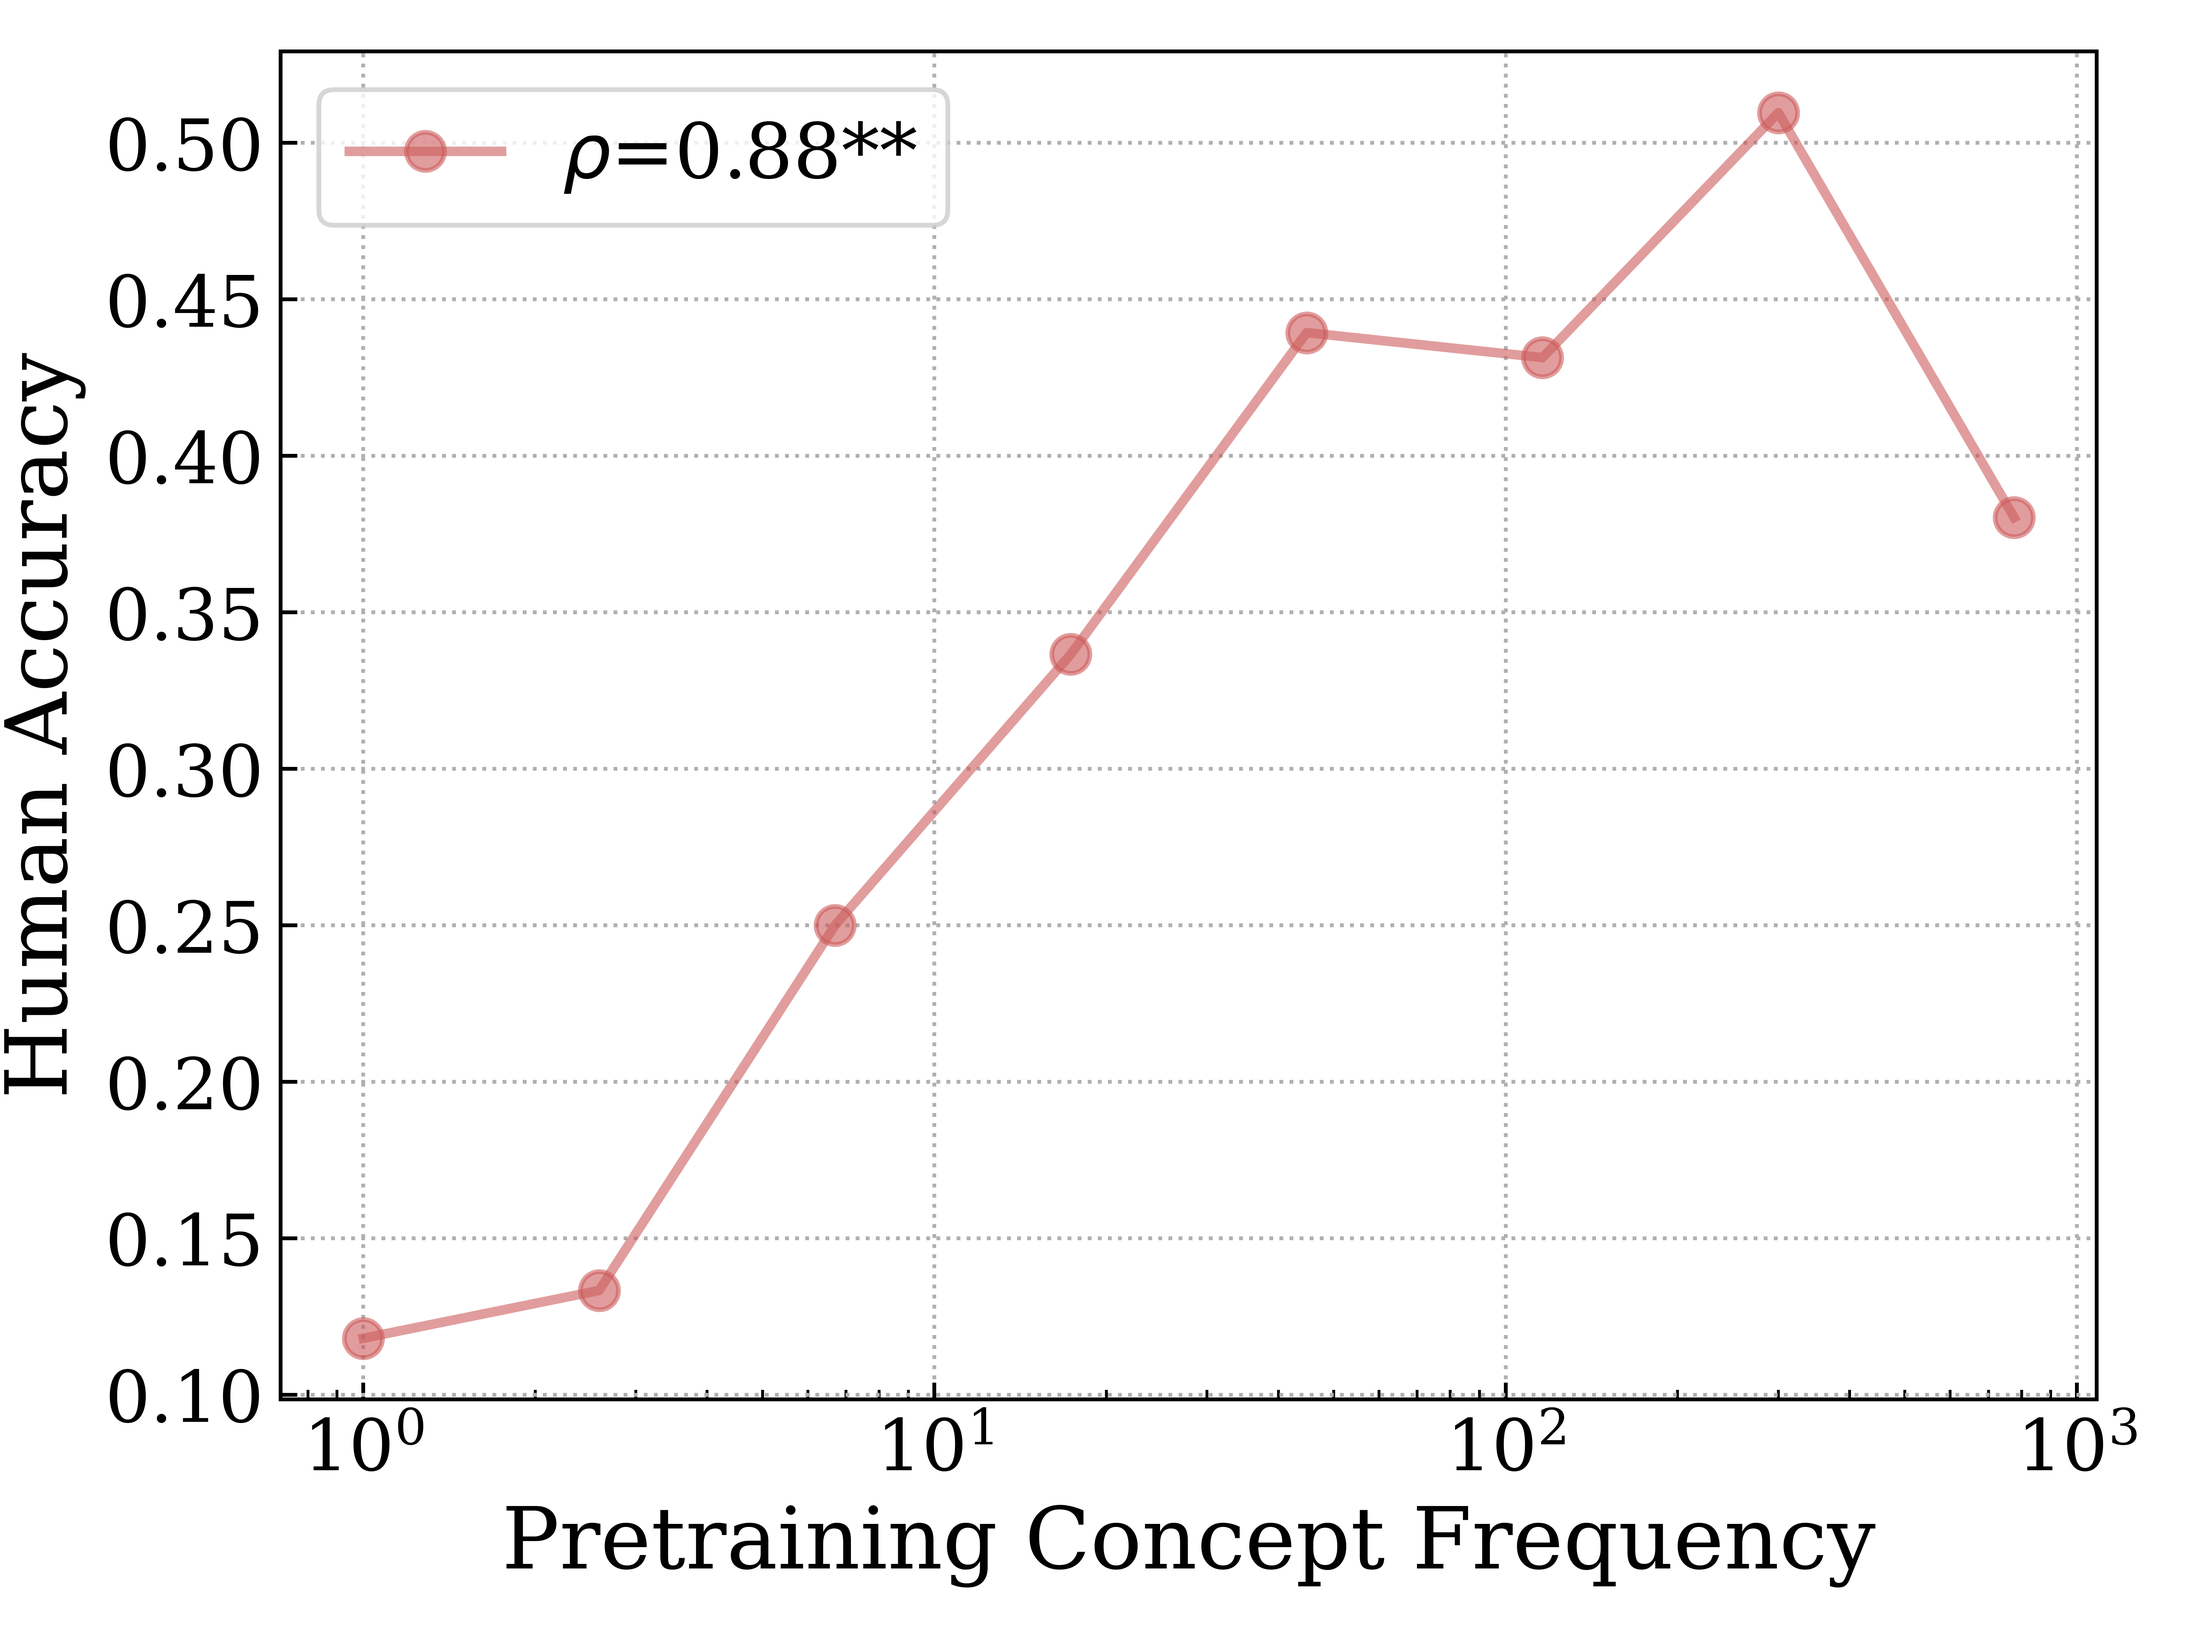
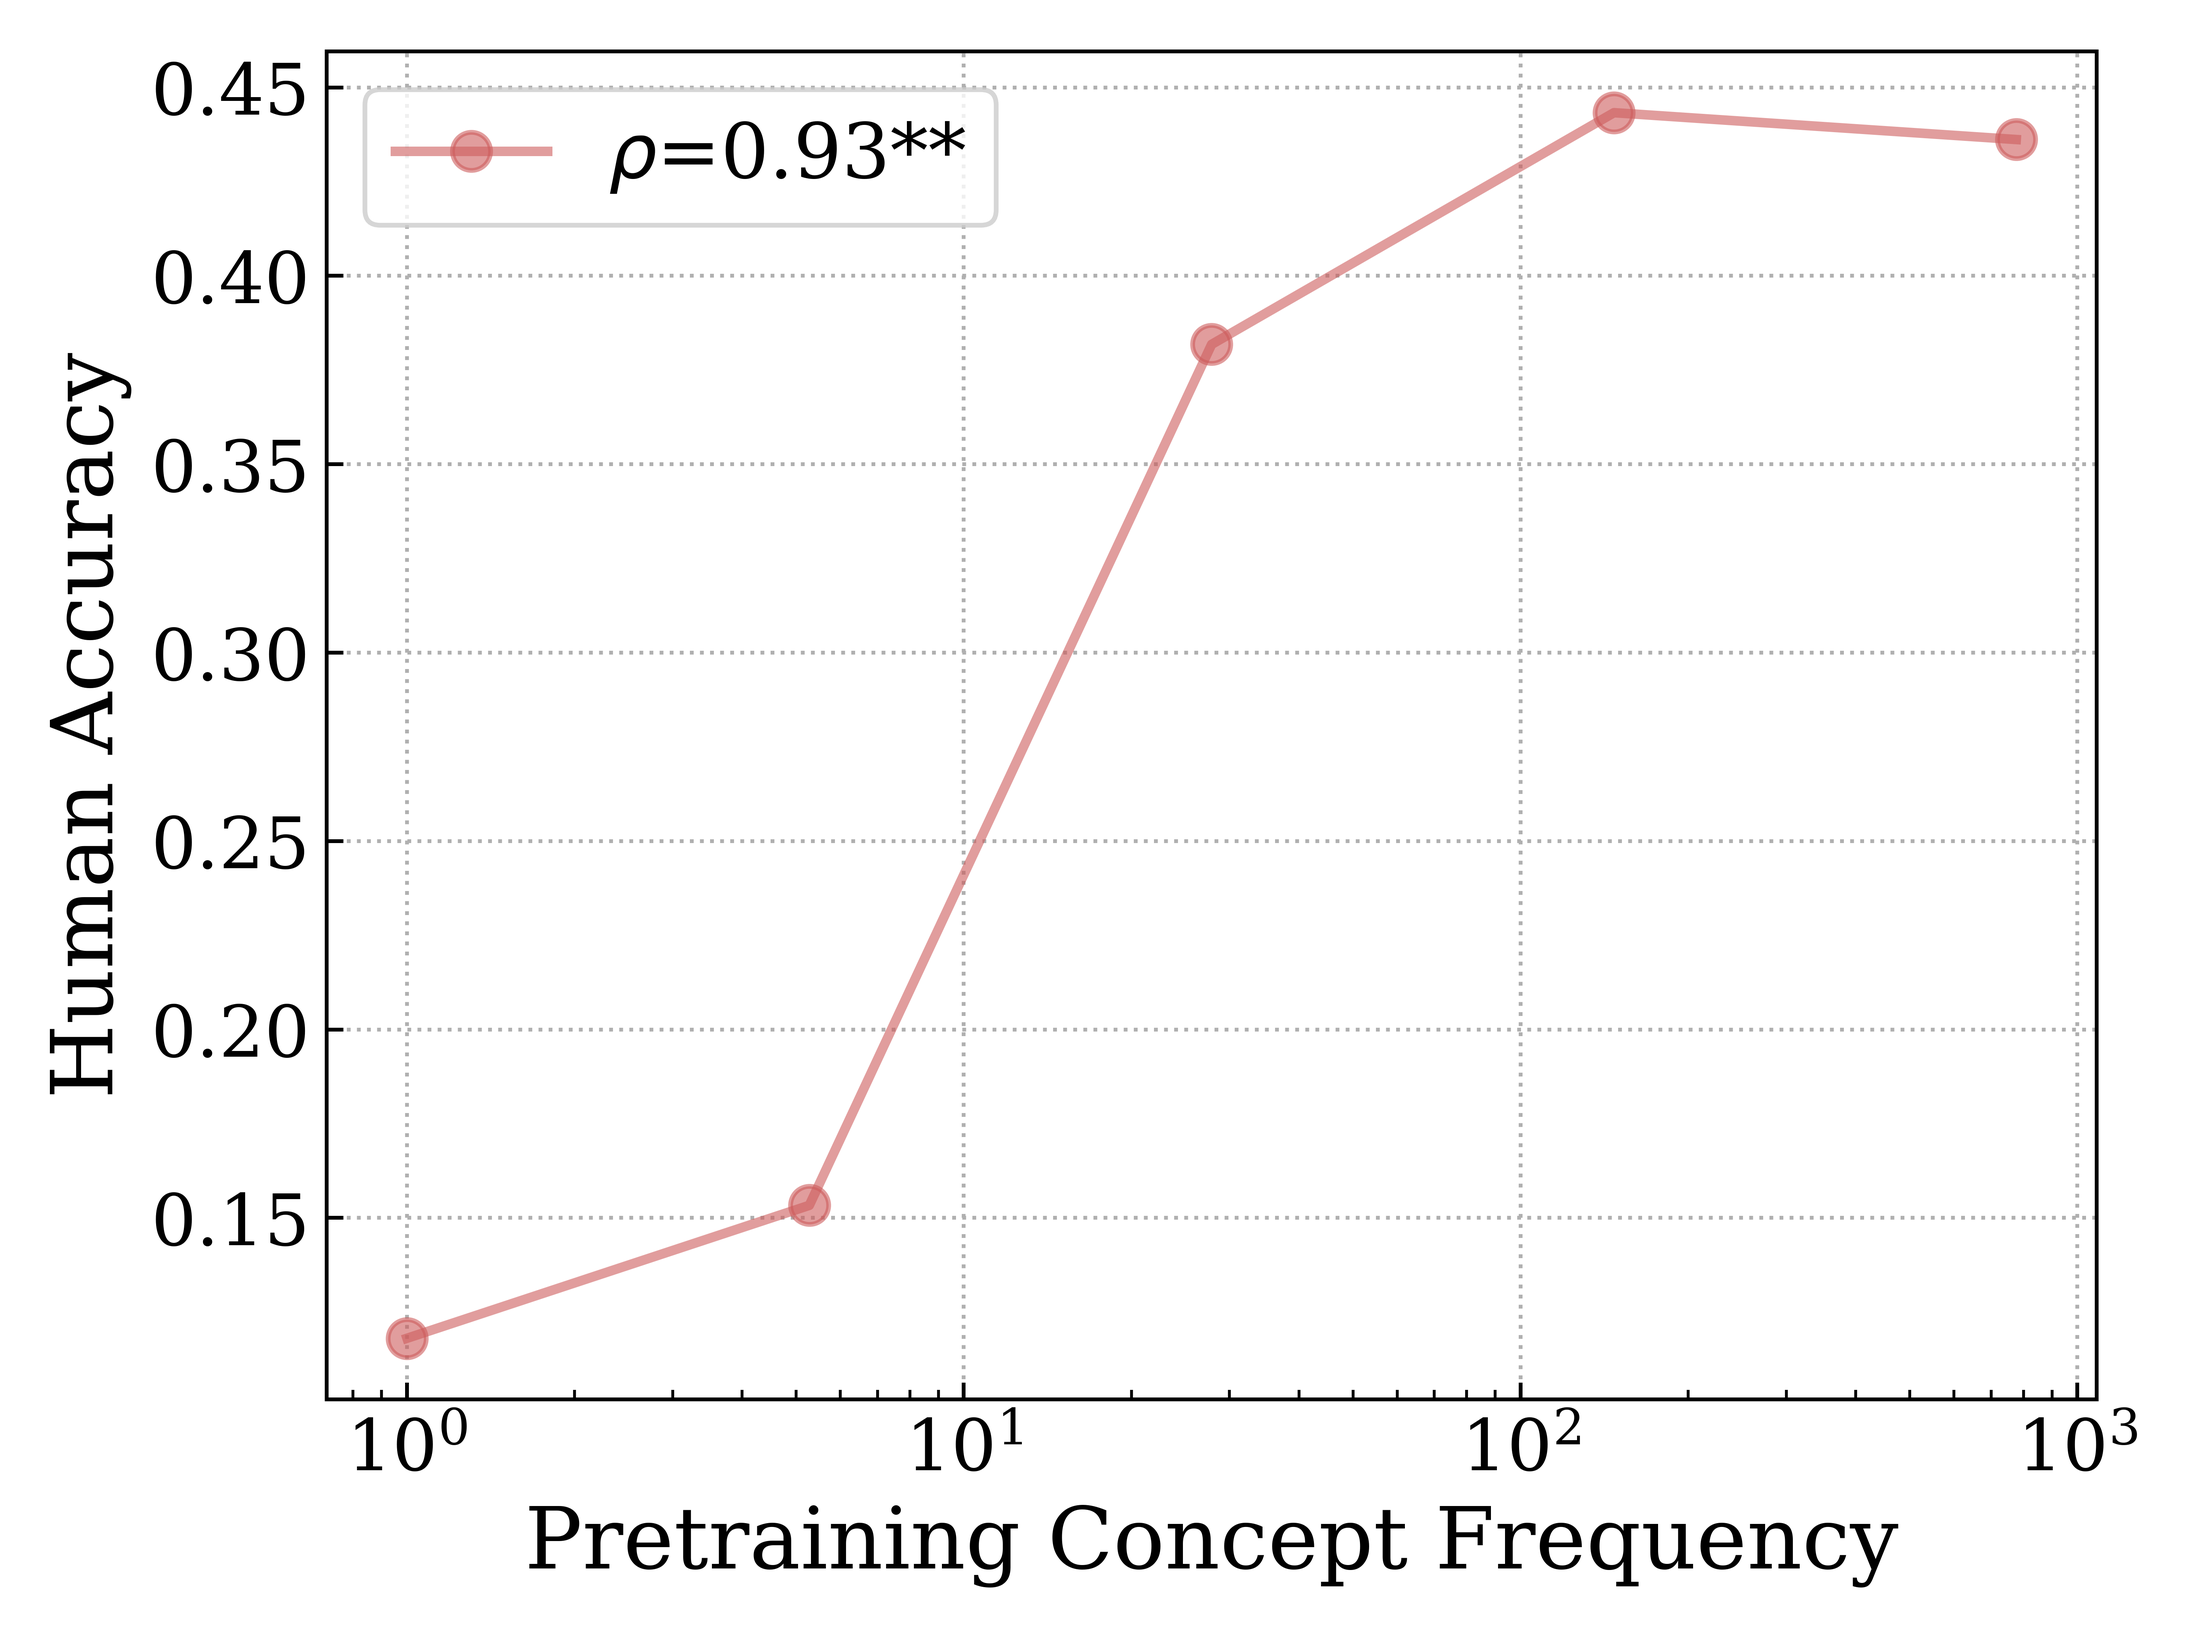
update human evaluation experiments

diff --git a/src/text_to_image_experiments/human_experiment_evaluation/human_plot_yash.py b/src/text_to_image_experiments/human_experiment_evaluation/human_plot_yash.py
@@ -1,0 +1,231 @@
+import matplotlib.pyplot as plt
+import matplotlib.colors as mcolors
+from collections import defaultdict
+import os
+os.environ["CUDA_VISIBLE_DEVICES"] = ""
+import numpy as np
+import pandas as pd
+import torch
+import itertools
+import pickle
+import seaborn as sns
+from matplotlib import rcParams
+
+rcParams["font.family"] = "serif"
+rcParams["grid.linestyle"] = ':'
+rcParams["xtick.direction"] = 'in'
+rcParams["ytick.direction"] = 'in'
+rcParams["legend.fontsize"] = 11
+rcParams["axes.labelsize"] = 18
+rcParams["axes.titlesize"] = 20
+rcParams["xtick.labelsize"] = 15
+rcParams["ytick.labelsize"] = 15
+
+concept = 'entity'
+entity_path = 'entities/P31_Q5_50000'
+participants = ['Nicholas','Daphne','Matthew','Milad','Yash','Katherine']
+version = 1
+only_all = True
+only_participants = False
+only_participant = 'Katherine'
+headshot_of = True
+headshot = False
+with open(os.path.join(f'{entity_path}/cnt_space.npy'), 'rb') as f:
+    counts = np.load(f)
+with open(os.path.join(f'{entity_path}.txt'), 'r') as f:
+    concepts = np.array(f.read().split('\n'))
+df_o = pd.DataFrame({concept: concepts, 'count': counts})
+def get_buckets(df_o):
+    if df_o.columns[0] == 'entity':
+        df = df_o[df_o['entity'].str.contains(' ')] # only entities with spaces
+    else:
+        df = df_o
+    df = df.sort_values("count", ascending=False)
+    bucket_size = 1000
+    bucket_min_count = 100
+    buckets = []
+    current_bucket = []
+    current_bucket_count = 0
+    current_bucket_min = float('inf')
+    current_bucket_max = float('-inf')
+    for i in range(len(df)):
+        count = df.iloc[i]["count"]
+        if count < current_bucket_min and current_bucket_count >= bucket_min_count:
+            buckets.append((current_bucket, current_bucket_count, current_bucket_min, current_bucket_max))
+            current_bucket = []
+            current_bucket_count = 0
+            current_bucket_min = count
+            current_bucket_max = count
+        current_bucket_max = max(current_bucket_max, count)
+        if current_bucket_max > 0:
+            current_bucket.append(i)
+            current_bucket_count += 1
+            current_bucket_min = min(current_bucket_min, count)
+        
+        if current_bucket_count == bucket_size:
+            buckets.append((current_bucket, current_bucket_count, current_bucket_min, current_bucket_max))
+            current_bucket = []
+            current_bucket_count = 0
+            current_bucket_min = float('inf')
+            current_bucket_max = float('-inf')
+    total_count = 0
+    bucket_dfs = []
+    for i, (bucket_indices, count, minimum, maximum) in enumerate(buckets):
+        bucket_dfs.append(df.iloc[bucket_indices])
+        print(f"Bucket {i}: {count} {df_o.columns[0]}, minimum count = {minimum}, maximum count = {maximum}")
+        total_count += count
+    print(f"Total count: {total_count}")
+    return buckets, bucket_dfs, df
+buckets, bucket_dfs, df = get_buckets(df_o)
+"""
+bucket_results = []
+for i, (bucket_indices, count, minimum, maximum) in enumerate(buckets):
+    samples = os.listdir(f"/home/yashjsharma/yash-internship/buckets{'' if concept == 'entity' else '_act'}/bucket_{i}{'_hsof' if headshot_of else '_hs' if headshot else ''}/samples")
+    text_probs = torch.load(f"/home/yashjsharma/yash-internship/buckets/bucket_{i}_hsof_clip.pt", 
+                            map_location=torch.device('cpu'))[np.argsort(samples)]
+    gt_idx = torch.tensor(df_o.index[df.index][bucket_indices].tolist()[:len(text_probs)]).to(text_probs.device)
+    if len(text_probs) > len(gt_idx): #txt2image didn't error out on last batch
+        try:
+            assert len(text_probs) % len(gt_idx) == 0
+        except AssertionError:
+            print(i)
+            continue
+        multiple = len(text_probs) // len(gt_idx)
+        gt_idx = gt_idx.repeat(multiple)
+    bucket_results.append(torch.argmax(text_probs, dim=-1) == gt_idx).float()
+print(bucket_results)
+"""
+#values_ = [bucket_accuracy]
+bucket_accuracy_mturks = {}
+if not only_participants:
+    bucket_accuracy_mturks['all'] = defaultdict(list)
+vers = f'_v{version}' if version else ''
+for participant in participants:
+    with open(f'{participant}{vers}_bucket_acc.pkl', 'rb') as f:
+        bucket_accuracy_mturk = pickle.load(f)
+        if bucket_accuracy_mturk:
+            if not only_all:
+                if not only_participant or participant == only_participant:
+                    bucket_accuracy_mturks[participant] = bucket_accuracy_mturk
+            if not only_participants:
+                for key, value in bucket_accuracy_mturk.items():
+                    bucket_accuracy_mturks['all'][key].extend(value)
+ranges = [(x[2], x[3]) for i,x in enumerate(buckets) if i <= 45]
+#assert len(ranges) == len(bucket_accuracy)
+fig, ax = plt.subplots(figsize=(6.4, 4.8))
+
+ax.set_xscale('log')
+#labels = ['CLIP'] +  list(bucket_accuracy_mturks.keys())
+labels = list(bucket_accuracy_mturks.keys())
+#colors = ['black'] +  list(mcolors.TABLEAU_COLORS.values())
+colors = list(mcolors.TABLEAU_COLORS.values())
+patches = []
+
+x_vals = []
+y_vals = []
+
+for j in range(len(labels)):
+    for i, (xmin, xmax) in enumerate(ranges):
+        center = (xmin + xmax) / 2
+        if False:
+        #if labels[j] == 'CLIP':
+            val = bucket_accuracy[i]
+        else:
+            if bucket_accuracy_mturks[labels[j]][i]:
+                val = np.array(bucket_accuracy_mturks[labels[j]][i], dtype=float).mean()
+            else:
+                val = None
+        if val is not None:
+            x_vals.append(center)
+            y_vals.append(val)
+            print(center, val)
+            # ax.plot(center, val, 'o', color='indianred')
+            # ax.plot([xmin, xmax], [val, val], '-', color='gray')
+    patches.append(plt.Line2D([], [], color=colors[j], marker='o', label=labels[j])) 
+
+A_1 = np.vstack([x_vals, np.ones(len(x_vals))]).T
+m_1, c_1 = np.linalg.lstsq(A_1, y_vals, rcond=None)[0]
+print(m_1)
+
+x_line_1 = np.array([min(x_vals), max(x_vals)])
+y_line_1 = m_1 * x_line_1 + c_1
+# plt.plot(x_line_1, y_line_1, c='black', label='Fitted line 1', alpha=0.4, linewidth=2)
+
+
+pairs = zip(x_vals, y_vals)
+
+# Sort the pairs based on the elements from x_vals
+sorted_pairs = sorted(pairs)
+
+# Unzip the pairs back into two lists
+sorted_x_vals, sorted_y_vals = zip(*sorted_pairs)
+
+x_vals = sorted_x_vals[:-1]
+y_vals = sorted_y_vals[:-1]
+
+print(x_vals, 'xvals')
+print(y_vals)
+
+# plt.scatter(x_vals, y_vals)
+
+nb = 5
+    
+bins = np.linspace(min(np.log(x_vals)), max(np.log(x_vals)), num=nb)
+assigned_bins = np.digitize(np.log(x_vals), bins, right=True)
+
+cumsums = [0]*len(bins)
+cumcounts = [0]*len(bins)
+cumarrs = {ab:[] for ab in assigned_bins}
+for acc, xv, ab in zip(y_vals, x_vals, assigned_bins):
+    cumsums[ab] += acc
+    cumcounts[ab] += 1
+    cumarrs[ab].append(acc)
+cumaccs = [s/c if c > 0 else 0 for s, c in zip(cumsums, cumcounts)]
+print(cumarrs.keys())
+# cummeans = np.zeros(max(list(cumarrs.keys()))+1)
+# cumstds = np.zeros(max(list(cumarrs.keys()))+1)
+
+cummeans = np.zeros(nb)
+cumstds = np.zeros(nb)
+
+for key in cumarrs:
+    try:
+        cummeans[key] = np.mean(cumarrs[key])
+    except IndexError as e:
+        print("ERROR IN : {} {} {}".format(curr_model, pretrained_dataset, prompt_type))
+        # return
+    cumstds[key] = np.std(cumarrs[key])
+print(cumsums)
+print(cumcounts)
+print(cumaccs)
+print(cummeans)
+print(cumstds)
+
+import scipy
+xxx, sig1 = scipy.stats.pearsonr(bins, cummeans)
+
+print(xxx, 'pearson')
+
+add1 = '**' if sig1<0.05 else ''
+
+print(bins, 'bins')
+plt.plot(np.exp(bins), cummeans, marker='o', linestyle='solid', alpha=0.6, markersize=8, linewidth=2, color='indianred', label=f'$\\rho$={xxx:.2f}'+add1)
+
+
+ax.set_xlabel('Pretraining Concept Frequency')
+ax.set_ylabel('Human Accuracy')
+#ax.set_ylim([0, 1])
+# ax.spines['right'].set_visible(False)
+# ax.spines['top'].set_visible(False)
+#blue_patch = plt.Line2D([], [], color='blue', marker='o', label='human (unambig)')
+# ax.legend(handles=patches)
+plt.legend(loc='best', fontsize=16)
+plt.tight_layout()
+plt.grid()
+plt.show()
+plot_name = f"clip_count{vers}{''.join(list(bucket_accuracy_mturks.keys()))}{'_hsof' if headshot_of else '_hs' if headshot else ''}"
+print(plot_name)
+fig.savefig(plot_name, dpi=900)
+for key in list(bucket_accuracy_mturks.keys()):
+    num_elem_per_bucket = np.array([len(bucket_accuracy_mturks[key][i]) for i in range(len(bucket_accuracy_mturks[key]))])
+    print(num_elem_per_bucket.min(), num_elem_per_bucket.mean(), num_elem_per_bucket.max())
